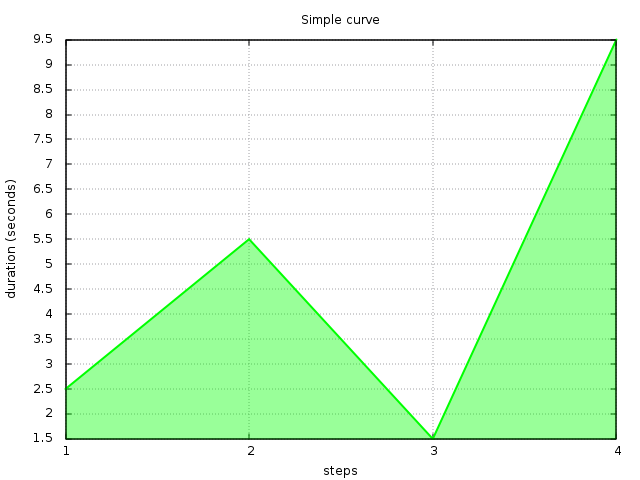
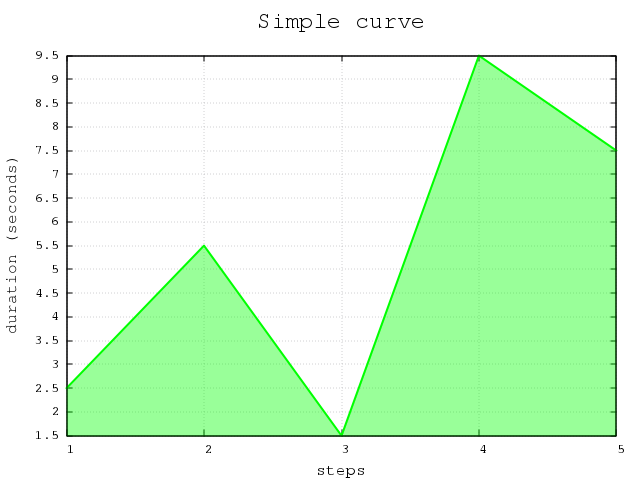
now using gnuplot 5; adjusting of fonts; csplines

Changed region(s): [[0.0, 0.0312, 0.9688, 0.9375], [0.0, 0.5312, 0.125, 0.7188], [0.5, 0.9688, 0.5625, 1.0]]

diff --git a/docs/gnuplot.md b/docs/gnuplot.md
@@ -3,20 +3,22 @@
 ## Generating a simple curve
 The main adjustments for this curve:
 
+ * Using gnuplot 5.x
  * main title above graph
  * tixs on x-axis and y-axis (steps)
  * title on x-axis and y-axis
  * displaying a grid
  * Filled area under the curve
- * Line color
- * Plotting from a list of data
+ * Line color (also influences fill color)
+ * Plotting from a list of data (reusable: here document)
+ * Fonts for titles, labels and tics
  * The **all in one** script: [here](examples/gp_simple_curve.sh)
 
 ![simple curve](images/simple-curve.png)
 
-## Smooth bezier curve
+## Smooth csplines curve
 
-Just putting a `smooth bezier` in front of the **with filledcurves** the
+Just putting a `smooth csplines` in front of the **with filledcurves** the
 simple curve examples looks like following:
 
-![simple bezier curve](images/smooth-bezier-curve.png)
+![simple csplines curve](images/smooth-csplines-curve.png)
